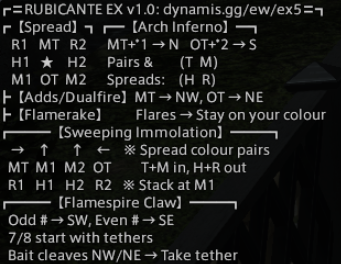
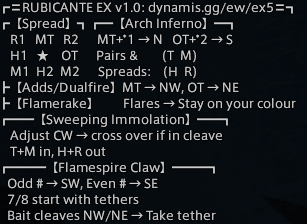
Change sweeping immolation strats

diff --git a/content/draft/ex5/index.md b/content/draft/ex5/index.md
@@ -15,17 +15,16 @@ Torenimo Mox @ Maduin.
 ![](macro.png)
 
 ```
-/p ═RUBICANTE EX v1.0: dynamis.gg/ew/ex5═
+/p ┏═RUBICANTE EX v1.0: dynamis.gg/ew/ex5═┓
 /p ┏【Spread】┓┏━【Arch Inferno】━┓
 /p     R1   MT   R2      MT+*1 → N   OT+*2 → S
-/p     H1   ★    H2      Pairs &        (T  M)
-/p     M1  OT  M2      Spreads:    (H  R)
+/p     H1   ★    OT      Pairs &        (T  M)
+/p     M1  H2  M2      Spreads:    (H  R)
 /p ┣【Adds/Dualfire】MT → NW, OT → NE
-/p ┣【Flamerake】        Flares → Stay on your colour
-/p ┏━━━【Sweeping Immolation】━━━┓
-/p     →    ↑      ↑    ←    ※ Spread colour pairs
-/p    MT  M1  M2  OT         T+M in, H+R out
-/p    R1   H1   H2   R2   ※ Stack at M1
+/p ┣【Flamerake】        Flares → Stay on colour
+/p ┏━━【Sweeping Immolation】━━┓
+/p     Adjust CW → cross over if in cleave
+/p     T+M in, H+R out
 /p ┏━━━【Flamespire Claw】━━━┓
 /p    Odd # → SW, Even # → SE
 /p    7/8 start with tethers
@@ -34,23 +33,22 @@ Torenimo Mox @ Maduin.
 
 ## Resources
 
-The strats we follow are the same as the strat's in Hector's guide with three changes:
+The strats we follow are the same as the strat's in Hector's guide (below).
+The only difference from the video is that, per [DESU conventions](/conventions#markers), the #1 marker should be in the NE corner, but none of the strats rely on the marker position so this is not super important.
 
-1. We place the #1 marker in the NE corner, per [DESU conventions](/conventions#markers).
-2. We use standard clock spots rather than putting the OT east. The alternate arrangement is only used for the crossover Sweeping Immolation strat.
-3. We use a fixed position system for Sweeping Immolation, as described by Hector at 14:38 in his video, rather than the crossover strat.
+{{ youtube(id="1_v6v2nmVJ0") }}
 
-{{ youtube(id="1_v6v2nmVJ0" }}
-
-These strats are also the same as used on [Elemental DC](https://tuufless.github.io/FFXIV-Elemental-Raid-Macros/6.0_endwalker/extreme_trials/rubicante/) with the exception of the Flamerake strat.
+These strats are also the same as used on [Elemental DC](https://tuufless.github.io/FFXIV-Elemental-Raid-Macros/6.0_endwalker/extreme_trials/rubicante/) with the exception of the Flamerake and Sweeping Immolation strats.
 
 ## Breakdown
 
-### Spread
+### Modified Spread
 
 ![](spread.png)
 
-We use [standard spread positions](/etiquette#positions).
+We use non-standard spread positions with the H2 and OT swapped from their usual spots.
+This allows both tanks to get full uptime during Sweeping Immolation.
+Even though the modified spread is for Sweeping Immolation specifically, it applies to all mechanics.
 
 ### Arch Inferno
 
@@ -68,22 +66,26 @@ For stacks, everyone spreads with the supports to the left of the DPS, relative 
 
 For the tethers in the adds phase and the Dualfire double cleave, the main tank takes the NW add/stands in the NW spot, while the OT takes the ET add/spot.
 
-### Flamerake
+### Flamerake: Stay on Colour
 
 ![](flamerake.png)
 
-During Flamerake, the mechanic can be resolved individually if everyone with flares stays within their colour marker. So, for instance, if the MT has a flare, they should take the flare in either the N (A marker) or NE (1 marker), whichever is safe.
+During Flamerake, the mechanic can be resolved individually if everyone with flares stays within their colour marker.
+So, for instance, if the MT has a flare, they should take the flare in either the N (A marker) or NE (1 marker), whichever is safe.
+The stack is always taken in the center, and the spread afterwards should be from original spread spots.
 
-### Sweeping Immolation
+### Sweeping Immolation: Crossover Strat
 
 ![](sweeping-immolation.png)
 
-When Sweeping Immolation has a spread, everyone should take a fixed position relative to the boss to take the spread.
-The melees will always be closer to the boss, with the main tank and ranged 1 on the boss's left side and the off-tank and ranged 2 on his right.
+To resolve Sweeping Immolation, everyone begins at their clock spot for the initial spread and line AoEs.
 
-When there is a stack, gather behind and to the left of the boss, at the `M1` spread position.
+Immediately afterwards, adjust CW halfway to the next waymark, out of the line AoEs.
+Then check if you are going to be in the boss's cleave arc.
+If so, cross to the safe slice directly opposite yours.
 
-We do not use the crossover strat.
+For spreads, melees and tanks take positions close to the boss, healers and ranged on the outside.
+For stacks, converge on the inner safe slice nearest you, in melee range.
 
 ### Flamespire Claw
 
@@ -97,5 +99,3 @@ The players with indicators 1 & 2 can head to their cleave markers as soon as th
 The players with indicators 7 & 8 should move in closer to the boss to take the first tethers.
 After each cleave, the player who baited that cleave should come in and grab the tether from the player on the same side as them.
 The player who previously had the tether can return to the rest of the group.
-
-
